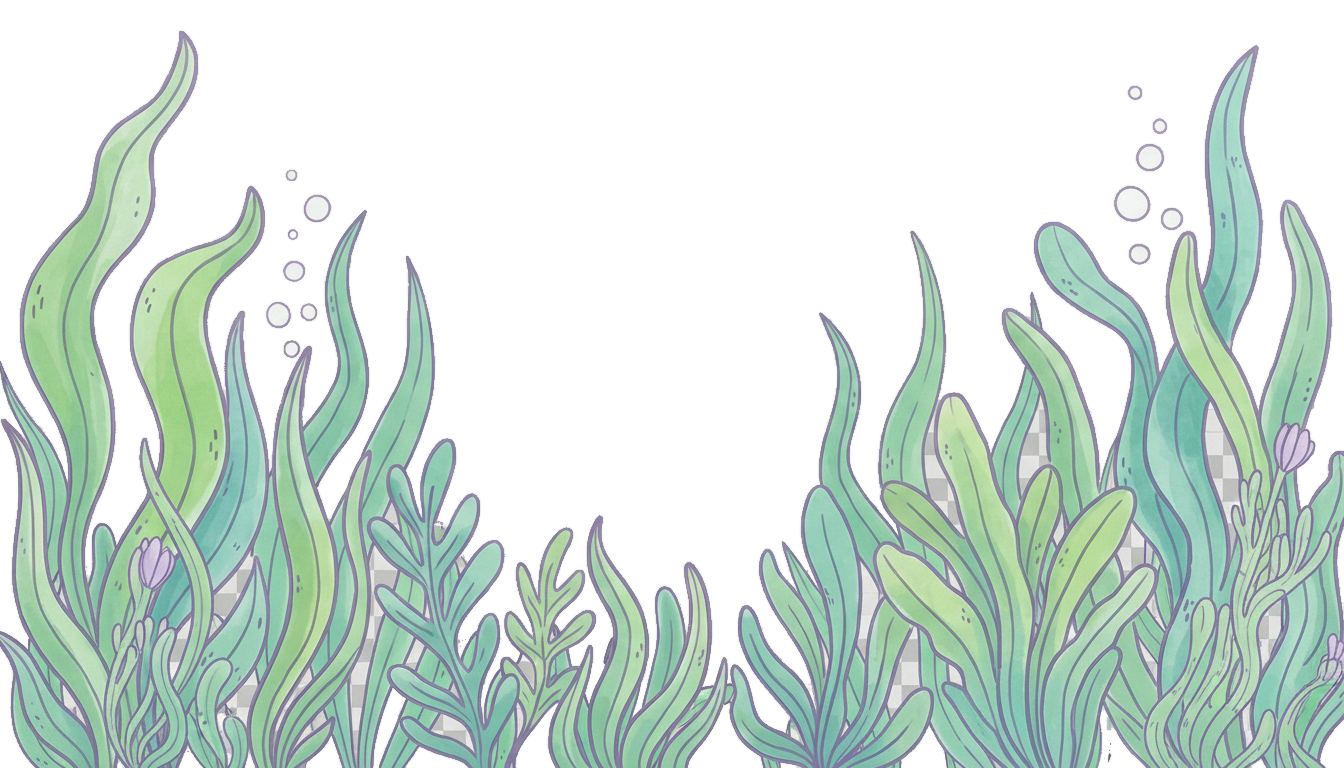
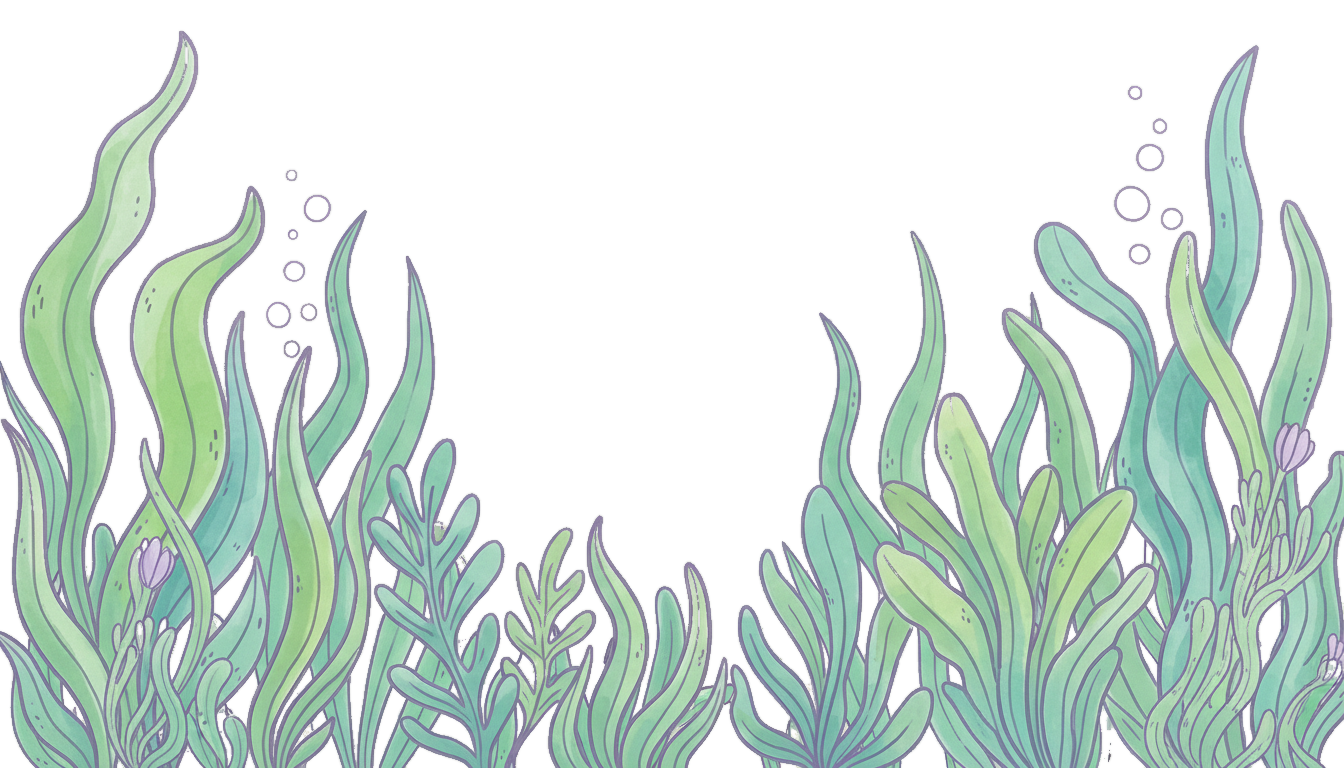
Arreglar hueco de transparencia real y suavizar balanceo de algas
- foreground_plants_01.png y distant_plants_01/02.png tenían agujeros de
  cuadrícula (checkerboard) interiores sin limpiar, atrapados entre hojas
  superpuestas, visibles en el juego real. Se localizó cada componente
  exacto y se eliminó de forma quirúrgica (verificado con composite sobre
  fondo magenta antes de guardar), sin tocar el resto del dibujo.
- Sustituir el cambio de frame en seco (Phaser.Animation) por
  CrossfadePlant: un fundido cruzado lento entre frames, para que el
  balanceo de las algas se note muy leve en vez de un salto brusco.
- BootScene/PondScene ya no registran animaciones de sway con anims.create;
  ahora instancian CrossfadePlant para distant_plants y foreground_plants.

Claude-Session: https://claude.ai/code/session_01NECFQR9dVFqZkCEBdrXX6e

diff --git a/src/scenes/PondScene.ts b/src/scenes/PondScene.ts
@@ -4,12 +4,13 @@ import { Lumi } from "@/entities/Lumi";
 import { BackgroundDecorSpawner } from "@/systems/BackgroundDecorSpawner";
 import { BackgroundFishField } from "@/systems/BackgroundFishField";
 import { BubbleField } from "@/systems/BubbleField";
+import { CrossfadePlant } from "@/systems/CrossfadePlant";
 import { InputController } from "@/systems/InputController";
 import { JellyfishSpawner } from "@/systems/JellyfishSpawner";
 import { LilyPadSpawner } from "@/systems/LilyPadSpawner";
 import { LumiBubbleTrail } from "@/systems/LumiBubbleTrail";
 import { ParallaxLayer } from "@/systems/ParallaxLayer";
-import { pondLayerKey, pondPlantSwayAnimKey } from "./BootScene";
+import { pondLayerKey, pondPlantFrameKey } from "./BootScene";
 
 /**
  * Escalada infinita: la cámara solo sube (nunca retrocede) siguiendo a
@@ -98,14 +99,20 @@ export class PondScene extends Phaser.Scene {
       .setDepth(1);
 
     // Balanceo real: cada hoja se mueve de forma independiente entre
-    // frames (generados con Gemini a partir del mismo dibujo), en vez de
-    // rotar toda la imagen de golpe — eso se veía artificial.
-    this.add
-      .sprite(WORLD_WIDTH / 2, START_Y + cam.height * 0.38, "pond_distant_plants_1")
-      .play(pondPlantSwayAnimKey("distant_plants"))
-      .setOrigin(0.5, 1)
-      .setScrollFactor(0.55)
-      .setDepth(3);
+    // frames (generados con Gemini a partir del mismo dibujo), fundiendo
+    // muy lento de uno a otro — nada de saltar de golpe entre poses, que
+    // se veía artificial y brusco.
+    new CrossfadePlant(
+      this,
+      WORLD_WIDTH / 2,
+      START_Y + cam.height * 0.38,
+      [pondPlantFrameKey("distant_plants", 1), pondPlantFrameKey("distant_plants", 2)],
+      { x: 0.5, y: 1 },
+      0.55,
+      3,
+      4000,
+      4500,
+    );
 
     this.lumi = new Lumi(this, WORLD_WIDTH / 2, START_Y);
     this.lumi.sprite.setDepth(5);
@@ -150,14 +157,23 @@ export class PondScene extends Phaser.Scene {
     });
 
     // foreground_plants es la capa más cercana a cámara: va delante de
-    // Lumi (como su nombre indica), no detrás. Mismo balanceo por frames
+    // Lumi (como su nombre indica), no detrás. Mismo balanceo por fundido
     // que distant_plants.
-    this.add
-      .sprite(WORLD_WIDTH / 2, START_Y + cam.height * 0.42, "pond_foreground_plants_1")
-      .play(pondPlantSwayAnimKey("foreground_plants"))
-      .setOrigin(0.5, 1)
-      .setScrollFactor(1)
-      .setDepth(6);
+    new CrossfadePlant(
+      this,
+      WORLD_WIDTH / 2,
+      START_Y + cam.height * 0.42,
+      [
+        pondPlantFrameKey("foreground_plants", 1),
+        pondPlantFrameKey("foreground_plants", 2),
+        pondPlantFrameKey("foreground_plants", 3),
+      ],
+      { x: 0.5, y: 1 },
+      1,
+      6,
+      3500,
+      4000,
+    );
 
     new BubbleField(this, cam.width, cam.height, 4.5, this.lumi.sprite);
 

diff --git a/src/systems/CrossfadePlant.ts b/src/systems/CrossfadePlant.ts
@@ -1,0 +1,56 @@
+import Phaser from "phaser";
+
+/**
+ * Balanceo natural de las algas: en vez de saltar de un frame a otro de
+ * golpe (Phaser.Animation cambia de textura en seco), esto funde
+ * lentamente de una imagen a la siguiente — el cambio entre hojas con
+ * posiciones distintas se nota mucho menos así.
+ */
+export class CrossfadePlant {
+  private images: Phaser.GameObjects.Image[];
+  private currentIndex = 0;
+
+  constructor(
+    private scene: Phaser.Scene,
+    x: number,
+    y: number,
+    textureKeys: string[],
+    origin: { x: number; y: number },
+    scrollFactor: number,
+    depth: number,
+    private holdMs: number,
+    private fadeMs: number,
+  ) {
+    this.images = textureKeys.map((key, i) =>
+      scene.add
+        .image(x, y, key)
+        .setOrigin(origin.x, origin.y)
+        .setScrollFactor(scrollFactor)
+        .setDepth(depth)
+        .setAlpha(i === 0 ? 1 : 0),
+    );
+    this.scheduleNext();
+  }
+
+  private scheduleNext() {
+    this.scene.time.delayedCall(this.holdMs, () => {
+      const next = (this.currentIndex + 1) % this.images.length;
+      this.scene.tweens.add({
+        targets: this.images[this.currentIndex],
+        alpha: 0,
+        duration: this.fadeMs,
+        ease: "Sine.easeInOut",
+      });
+      this.scene.tweens.add({
+        targets: this.images[next],
+        alpha: 1,
+        duration: this.fadeMs,
+        ease: "Sine.easeInOut",
+        onComplete: () => {
+          this.currentIndex = next;
+          this.scheduleNext();
+        },
+      });
+    });
+  }
+}

diff --git a/src/scenes/BootScene.ts b/src/scenes/BootScene.ts
@@ -37,10 +37,6 @@ function pondPlantFramePath(folder: string, index: number) {
   return `/backgrounds/pond/${folder}/${folder}_${n}.png`;
 }
 
-export function pondPlantSwayAnimKey(folder: string) {
-  return `pond_sway_${folder}`;
-}
-
 export class BootScene extends Phaser.Scene {
   constructor() {
     super("Boot");
@@ -87,23 +83,6 @@ export class BootScene extends Phaser.Scene {
     }
 
     registerLumiAnimations(this);
-
-    // Balanceo lento ida-y-vuelta entre los frames (yoyo): así no hace
-    // falta que el último frame conecte a la perfección con el primero
-    // para que el loop se sienta natural.
-    for (const [folder, count] of Object.entries(POND_PLANT_FRAME_COUNT)) {
-      const key = pondPlantSwayAnimKey(folder);
-      if (this.anims.exists(key)) continue;
-      const frames = Array.from({ length: count }, (_, i) => ({ key: pondPlantFrameKey(folder, i + 1) }));
-      this.anims.create({
-        key,
-        frames,
-        frameRate: 1.2,
-        yoyo: true,
-        repeat: -1,
-      });
-    }
-
     this.scene.start("Pond");
   }
 }
